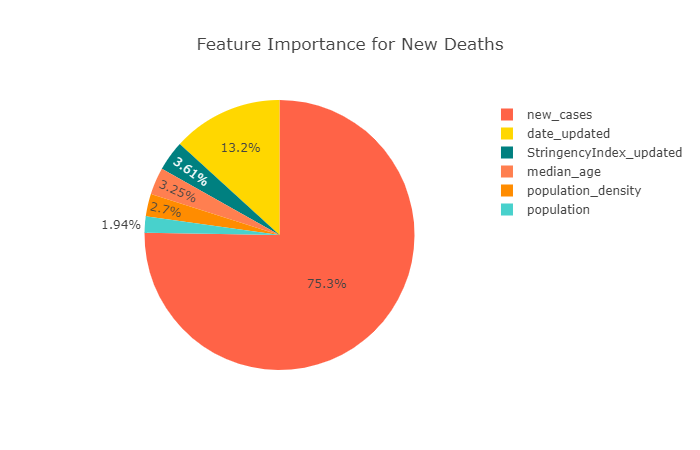
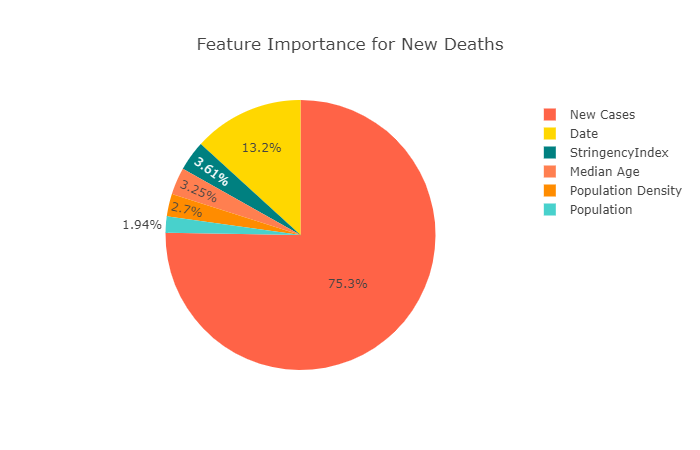
updated chart labels

Changed region(s): [[0.15, 0.2178, 0.63, 0.84], [0.69, 0.2178, 0.99, 0.4978], [0.45, 0.6222, 0.54, 0.6533]]

diff --git a/regulation/Analysis/plotly charts/plots.js b/regulation/Analysis/plotly charts/plots.js
@@ -1,6 +1,6 @@
 // ____________________Total Deaths______________________________
 var trace = {
-    labels: ['population','population_density','median_age','total_cases_updated','StringencyIndex_updated'],
+    labels: ['Population','Population Density','Median Age','Total Cases','StringencyIndex'],
     values: [2.71,  1.70,  3.57, 83.08,  8.95],
     marker:{
         colors:['gold', 'mediumturquoise', 'darkorange','teal','lightgreen','coral','tomato']},
@@ -16,7 +16,7 @@ Plotly.newPlot("plotArea-TD", data, layout);
 // ___________________Total Cases_______________________________________
 
 var trace1 = {
-    labels: ['date_updated','population','population_density','median_age','EconomicSupportIndex_updated','ContainmentHealthIndex_updated','StringencyIndex_updated'],
+    labels: ['Date','Population','Population Density','Median Age','EconomicSupportIndex','ContainmentHealthIndex','StringencyIndex'],
     values: [30.4, 20.61, 20.95, 5.62, 8.6, 6.82, 7.0],
     marker:{
         colors:['gold', 'mediumturquoise', 'darkorange', 'coral','tomato','teal','lightgreen']},
@@ -32,7 +32,7 @@ Plotly.newPlot("plotArea-TC", data1, layout1);
 // ______________________New Deaths______________________________________________
 
 var trace2 = {
-    labels: ['date_updated','population','population_density','median_age','new_cases','StringencyIndex_updated'],
+    labels: ['Date','Population','Population Density','Median Age','New Cases','StringencyIndex'],
     values: [13.23, 1.94, 2.7, 3.25, 75.27, 3.61],
     marker:{
         colors:['gold', 'mediumturquoise', 'darkorange', 'coral','tomato','teal','lightgreen']},
@@ -48,7 +48,7 @@ Plotly.newPlot("plotArea-ND", data2, layout2);
 // ______________________New Cases______________________________________________
 
 var trace3 = {
-    labels: ['date_updated','population','population_density','median_age','EconomicSupportIndex_updated','ContainmentHealthIndex_updated','StringencyIndex_updated'],
+    labels: ['Date Updated','Population','Population Density','Median Age','EconomicSupportIndex','ContainmentHealthIndex','StringencyIndex'],
     values: [26.6, 23.5, 3.07, 14.51, 28.08, 2.85, 1.39],
     marker:{
         colors:['gold', 'mediumturquoise', 'darkorange', 'coral','tomato','teal','lightgreen']},

diff --git a/regulation/Analysis/plotly charts/index.html b/regulation/Analysis/plotly charts/index.html
@@ -6,20 +6,42 @@
     <meta http-equiv="X-UA-Compatible" content="ie=edge">
     <title>Feature Importance</title>
     <script src="https://cdn.plot.ly/plotly-latest.min.js"></script>
+    <link
+      rel="stylesheet"
+      href="https://maxcdn.bootstrapcdn.com/bootstrap/4.0.0/css/bootstrap.min.css"
+      integrity="sha384-Gn5384xqQ1aoWXA+058RXPxPg6fy4IWvTNh0E263XmFcJlSAwiGgFAW/dAiS6JXm"
+      crossorigin="anonymous"
+    />
+    
     
 </head>
 <body>
-    <div class="container-fluid">
-        <div class="row">
-            <div class="col-md-4 text-center" id="plotArea-TD"></div>
-            <div class="col-md-4 text-center"id="plotArea-TC"></div>
-        </div>
+    <div>
+        <h1 class="text-center"> RandomForest Regressor</h1>
     </div>
     <div class="container-fluid">
         <div class="row">
-            <div class="col-md-4 text-center" id="plotArea-NC"></div>
-            <div class="col-md-4 text-center" id="plotArea-ND"></div>
-        </div>
+            <div class="col-md-6 text-center">
+                <div id="plotArea-TD">
+
+                </div>
+            </div>
+
+            <div class="col-md-6 text-center">
+                <div id="plotArea-TC">
+                </div>
+            </div>
+    </div>
+    <div class="container-fluid">
+        <div class="row">
+            <div class="col-md-6 text-center">
+                <div id="plotArea-NC">
+                </div>
+            </div>
+            <div class="col-md-6 text-center">
+                <div id="plotArea-ND">       
+                </div>
+            </div>
     </div>
     <script src="plots.js"></script>
 </body>
